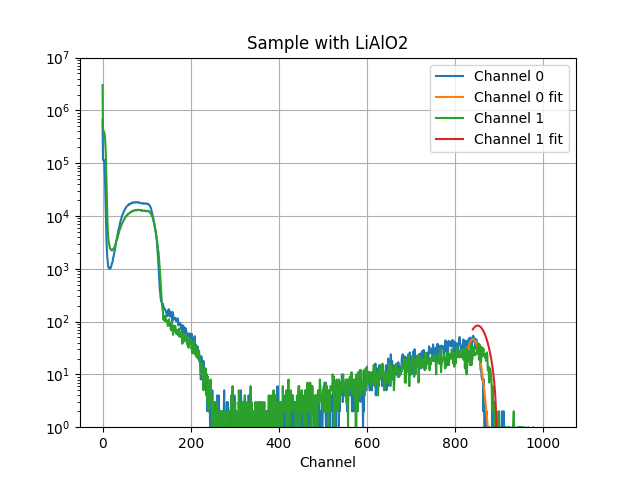
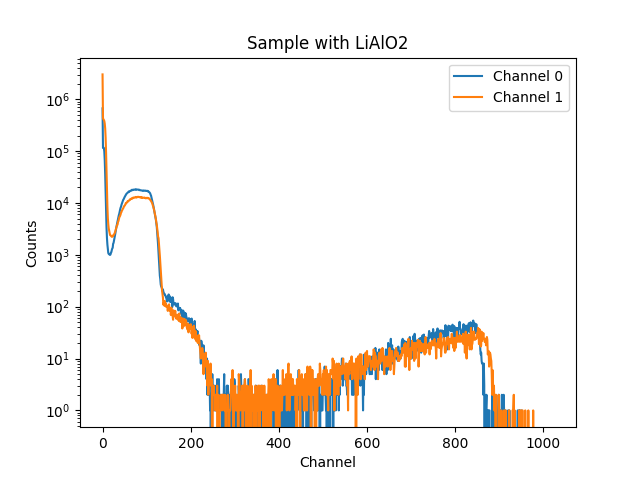
Edited Images

diff --git a/analise.py b/analise.py
@@ -108,37 +108,37 @@ TT27_Chn2 = reader(TT_27_PATH / 'CH2@N6781_21198_Espectrum_TT_27_20231207_160722
 # plt.savefig(IMAGE_PATH/'TT_22.png')
 # plt.show()
 
-# # TT_23 -> 1024 bins, 2mC (LiF)
-# plt.figure()
-# plt.plot(TT23_Chn0, label='Chnannel 0')
-# plt.plot(TT23_Chn1, label='Channel 1')
+# TT_23 -> 1024 bins, 2mC (LiF)
+plt.figure()
+plt.plot(TT23_Chn0, label='Channel 0')
+plt.plot(TT23_Chn1, label='Channel 1')
 # plt.plot(TT23_Chn2, label='Channel 2')
-# plt.legend()
-# plt.title('TT_23')
-# plt.yscale('log')
-# plt.xlabel('Channel')
-# plt.ylabel('Counts')
-# plt.savefig(IMAGE_PATH/'TT_23.png')
-# plt.show()
+plt.legend()
+plt.title('Sample with LiF')
+plt.yscale('log')
+plt.xlabel('Channel')
+plt.ylabel('Counts')
+plt.savefig(IMAGE_PATH/'SampleLiF.png')
+plt.show()
 
-# # TT_24 -> 1024 bins, 2mC (LiAlO2)
-# plt.figure()
-# plt.plot(TT24_Chn0, label='Chnannel 0')
-# plt.plot(TT24_Chn1, label='Channel 1')
+# TT_24 -> 1024 bins, 2mC (LiAlO2)
+plt.figure()
+plt.plot(TT24_Chn0, label='Channel 0')
+plt.plot(TT24_Chn1, label='Channel 1')
 # plt.plot(TT24_Chn2, label='Channel 2')
-# plt.legend()
-# plt.title('TT_24')
-# plt.yscale('log')
-# plt.xlabel('Channel')
-# plt.ylabel('Counts')
-# plt.savefig(IMAGE_PATH/'TT_24.png')
-# plt.show()
+plt.legend()
+plt.title('Sample with LiAlO2')
+plt.yscale('log')
+plt.xlabel('Channel')
+plt.ylabel('Counts')
+plt.savefig(IMAGE_PATH/'SampleLiAlO2.png')
+plt.show()
 
 # # TT_25 -> 1024 bins, 2mC (Li Implantado em Al)
 # plt.figure()
 # plt.plot(TT25_Chn0, label='Chnannel 0')
 # plt.plot(TT25_Chn1, label='Channel 1')
-# plt.plot(TT25_Chn2, label='Channel 2')
+# # plt.plot(TT25_Chn2, label='Channel 2')
 # plt.legend()
 # plt.title('TT_25')
 # plt.yscale('log')
@@ -147,18 +147,18 @@ TT27_Chn2 = reader(TT_27_PATH / 'CH2@N6781_21198_Espectrum_TT_27_20231207_160722
 # plt.savefig(IMAGE_PATH/'TT_25.png')
 # plt.show()
 
-# # TT_26
-# plt.figure()
-# plt.plot(TT26_Chn0, label='Chnnanel 0')
-# plt.plot(TT26_Chn1, label='Channel 1')
+# TT_26
+plt.figure()
+plt.plot(TT26_Chn0, label='Channel 0')
+plt.plot(TT26_Chn1, label='Channel 1')
 # plt.plot(TT26_Chn2, label='Channel 2')
-# plt.legend()
-# plt.title('TT_26')
-# plt.yscale('log')
-# plt.xlabel('Channel')
-# plt.ylabel('Counts')
-# plt.savefig(IMAGE_PATH/'TT_26.png')
-# plt.show()
+plt.legend()
+plt.title('Implanted Sample of Li in Al')
+plt.yscale('log')
+plt.xlabel('Channel')
+plt.ylabel('Counts')
+plt.savefig(IMAGE_PATH/'ImplantedSample.png')
+plt.show()
 
 # # TT_27
 # plt.figure()
@@ -213,14 +213,15 @@ plt.plot(x, gaussian(x, *popt0), label='Channel 0 fit')
 plt.plot(TT23_Chn1, label='Channel 1')
 plt.plot(x1, gaussian(x1, *popt1), label='Channel 1 fit')
 # Style
-plt.ylim(1, 1e7)
+plt.ylim(1, 1e3)
+plt.xlim(830, 950)
 plt.title('Sample with LiF')
 plt.legend()
 plt.xlabel('Channel')
 plt.yscale('log')
 plt.grid()
-plt.savefig(IMAGE_PATH/'SampleLiF.png')
-# plt.show()
+plt.savefig(IMAGE_PATH/'SampleLiF_Fit.png')
+plt.show()
 # Print the results
 print(tabulate([['Sample with LiF']], tablefmt='fancy_grid'))
 
@@ -258,14 +259,15 @@ plt.plot(x, gaussian(x, *popt0), label='Channel 0 fit')
 plt.plot(TT24_Chn1, label='Channel 1')
 plt.plot(x1, gaussian(x1, *popt1), label='Channel 1 fit')
 # Style
-plt.ylim(1, 1e7)
+plt.ylim(1, 1e3)
+plt.xlim(830, 950)
 plt.title('Sample with LiAlO2')
 plt.legend()
 plt.xlabel('Channel')
 plt.yscale('log')
 plt.grid()
-plt.savefig(IMAGE_PATH/'SampleLiALO2.png')
-# plt.show()
+plt.savefig(IMAGE_PATH/'SampleLiALO2_Fit.png')
+plt.show()
 # Print the results
 print(tabulate([['Sample with LiAlO2']], tablefmt='fancy_grid'))
 
@@ -303,14 +305,15 @@ plt.plot(x, gaussian(x, *popt0), label='Channel 0 fit')
 plt.plot(TT26_Chn1, label='Channel 1')
 plt.plot(x1, gaussian(x1, *popt1), label='Channel 1 fit')
 # Style
-plt.ylim(1, 1e7)
+plt.ylim(1, 1e2)
+plt.xlim(800, 900)
 plt.title('Implanted Sample of Li in Al')
 plt.legend()
 plt.xlabel('Channel')
 plt.yscale('log')
 plt.grid()
-plt.savefig(IMAGE_PATH/'ImplantedSample.png')
-# plt.show()
+plt.savefig(IMAGE_PATH/'ImplantedSample_Fit.png')
+plt.show()
 # Print the results
 print(tabulate([['Sample of Implanted Li in Al']], tablefmt='fancy_grid'))
 
